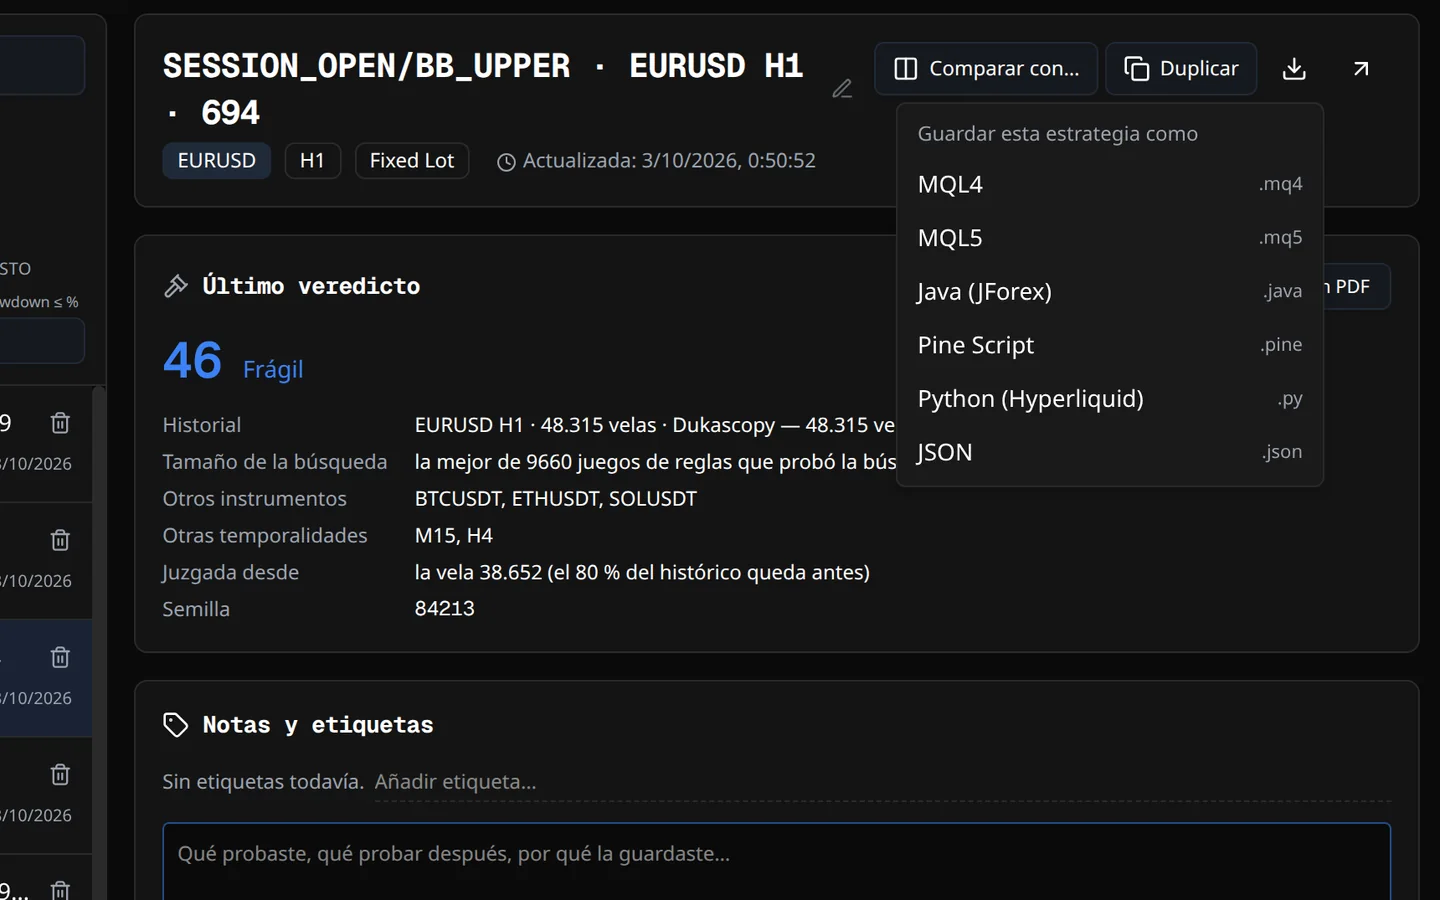
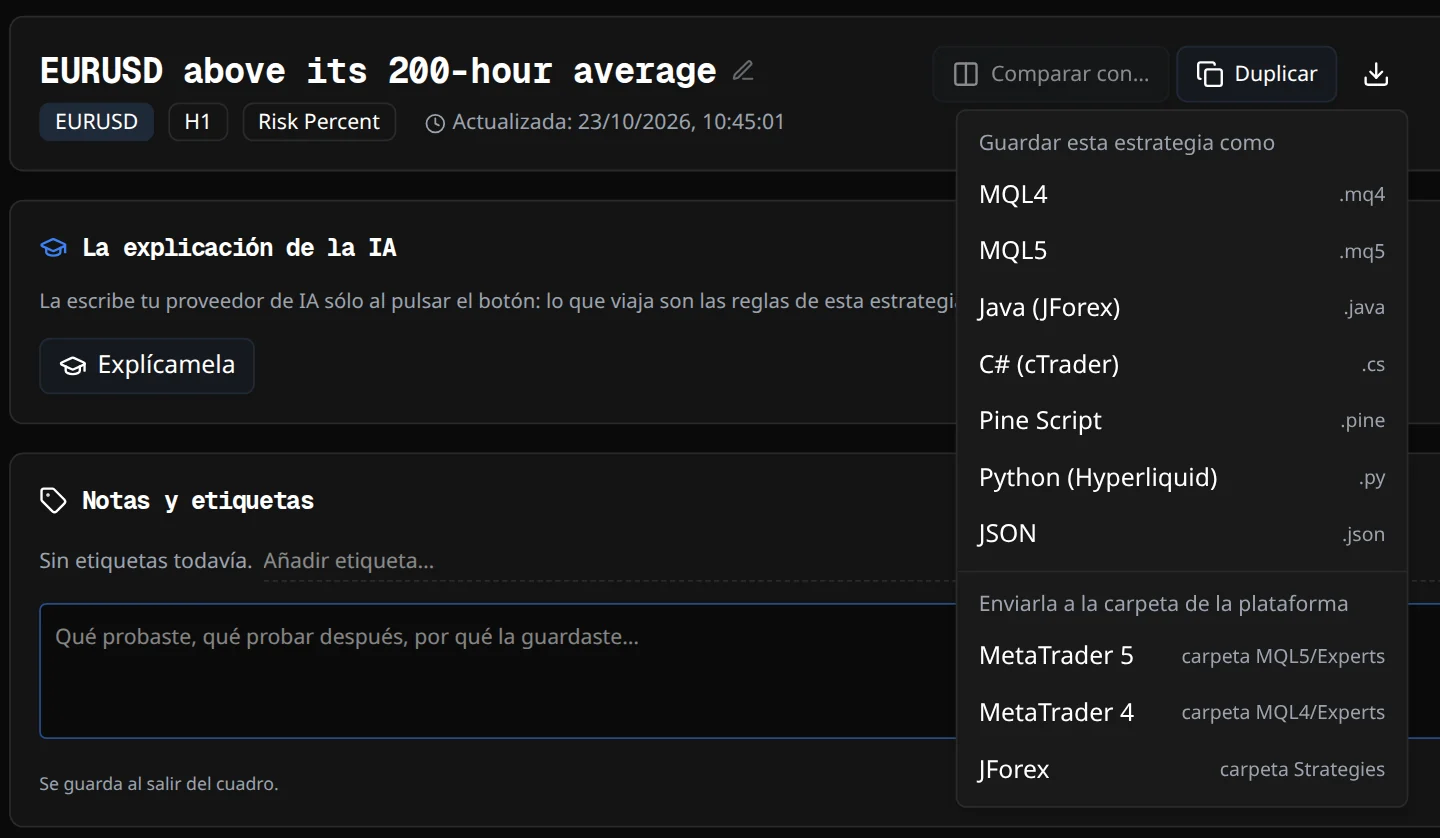
Las capturas del menú de exportar, con cTrader y el envío a la carpeta de cada plataforma

diff --git a/3f35ba99a7/es/index.html b/3f35ba99a7/es/index.html
@@ -209,7 +209,7 @@
           <p><strong>No sustituye a la cuenta demo: la mejora.</strong> La demo es del bróker, que te la cierra a las pocas semanas para que pases a real, y poner el robot a operar en ella pide un servidor o el ordenador viejo encendido día y noche. La Cuarentena usa las velas de tu cuenta real sin mandar una orden ni arriesgar un céntimo, y te dice qué habría pasado. No tienes que dejar nada encendido: cuando la abres, se pone al día.</p>
           <p>Y ese día, BotFactoryFX lo escribe en <strong>código nativo para MQL4, MQL5, Java (JForex), C# (cTrader), Pine Script y Python (Hyperliquid)</strong>, compilado de verdad con el compilador de cada plataforma, y con protección dentro: corte de cuenta, horario y cierre del viernes.</p>
         </div>
-        <figure class="captura"><img src="../capturas/es/exportar.webp" alt="Exportar una estrategia en código nativo para seis plataformas" width="2000" height="759" loading="lazy"><figcaption>Cada estrategia guardada está a un clic de seis plataformas: MQL4, MQL5, Java para JForex, C# para cTrader, Pine Script y Python para Hyperliquid. Lo que se escribe es la estrategia que midió el juez.</figcaption></figure>
+        <figure class="captura"><img src="../capturas/es/exportar.webp" alt="Exportar una estrategia en código nativo para seis plataformas" width="2000" height="813" loading="lazy"><figcaption>Cada estrategia guardada está a un clic de seis plataformas: MQL4, MQL5, Java para JForex, C# para cTrader, Pine Script y Python para Hyperliquid. Lo que se escribe es la estrategia que midió el juez.</figcaption></figure>
       </article>
 
       <article class="asiento" id="linea-impuestos">

diff --git a/3f35ba99a7/index.html b/3f35ba99a7/index.html
@@ -209,7 +209,7 @@
           <p><strong>It doesn’t replace a demo account: it improves on it.</strong> A demo belongs to the broker, who closes it after a few weeks so you move to real money, and running the robot on it takes a server or an old computer left on day and night. The Quarantine uses the candles of your real account without sending a single order or risking a cent, and tells you what would have happened. You don’t have to leave anything on: when you open it, it catches up.</p>
           <p>And on that day, BotFactoryFX writes it in <strong>native code for MQL4, MQL5, Java (JForex), C# (cTrader), Pine Script and Python (Hyperliquid)</strong>, compiled for real with each platform’s own compiler, and with protection inside: account cut-off, trading hours and Friday close.</p>
         </div>
-        <figure class="captura"><img src="capturas/en/exportar.webp" alt="Exporting a strategy as native code for six platforms" width="2000" height="759" loading="lazy"><figcaption>Every saved strategy is one click away from six platforms: MQL4, MQL5, Java for JForex, C# for cTrader, Pine Script, and Python for Hyperliquid. What gets written is the strategy the judge measured.</figcaption></figure>
+        <figure class="captura"><img src="capturas/en/exportar.webp" alt="Exporting a strategy as native code for six platforms" width="2000" height="813" loading="lazy"><figcaption>Every saved strategy is one click away from six platforms: MQL4, MQL5, Java for JForex, C# for cTrader, Pine Script, and Python for Hyperliquid. What gets written is the strategy the judge measured.</figcaption></figure>
       </article>
 
       <article class="asiento" id="line-taxes">

diff --git a/3f35ba99a7/es/como-funciona/index.html b/3f35ba99a7/es/como-funciona/index.html
@@ -296,7 +296,7 @@
     <figure class="capitulo-medio">
       <div class="ventana">
         <div class="ventana-barra"><i></i><i></i><i></i><span>BotFactoryFX — Biblioteca › Descargar</span></div>
-        <img src="../../capturas/es/como/exportar.webp" alt="El menú de descarga de la Biblioteca: MQL4, MQL5, Java para JForex, C# para cTrader, Pine Script, Python para Hyperliquid y JSON" width="1440" height="900" loading="lazy">
+        <img src="../../capturas/es/como/exportar.webp" alt="El menú de descarga de la Biblioteca: MQL4, MQL5, Java para JForex, C# para cTrader, Pine Script, Python para Hyperliquid y JSON" width="1440" height="838" loading="lazy">
       </div>
       <figcaption class="pie-de-foto">Un menú, seis plataformas, y la estrategia en JSON para guardarla o llevarla a otra máquina.</figcaption>
     </figure>

diff --git a/3f35ba99a7/how-it-works/index.html b/3f35ba99a7/how-it-works/index.html
@@ -296,7 +296,7 @@
     <figure class="capitulo-medio">
       <div class="ventana">
         <div class="ventana-barra"><i></i><i></i><i></i><span>BotFactoryFX — Library › Download</span></div>
-        <img src="../capturas/en/como/exportar.webp" alt="The Library’s download menu: MQL4, MQL5, Java for JForex, C# for cTrader, Pine Script, Python for Hyperliquid and JSON" width="1440" height="900" loading="lazy">
+        <img src="../capturas/en/como/exportar.webp" alt="The Library’s download menu: MQL4, MQL5, Java for JForex, C# for cTrader, Pine Script, Python for Hyperliquid and JSON" width="1440" height="838" loading="lazy">
       </div>
       <figcaption class="pie-de-foto">One menu, six platforms — and the strategy as JSON, to keep or to move to another machine.</figcaption>
     </figure>
